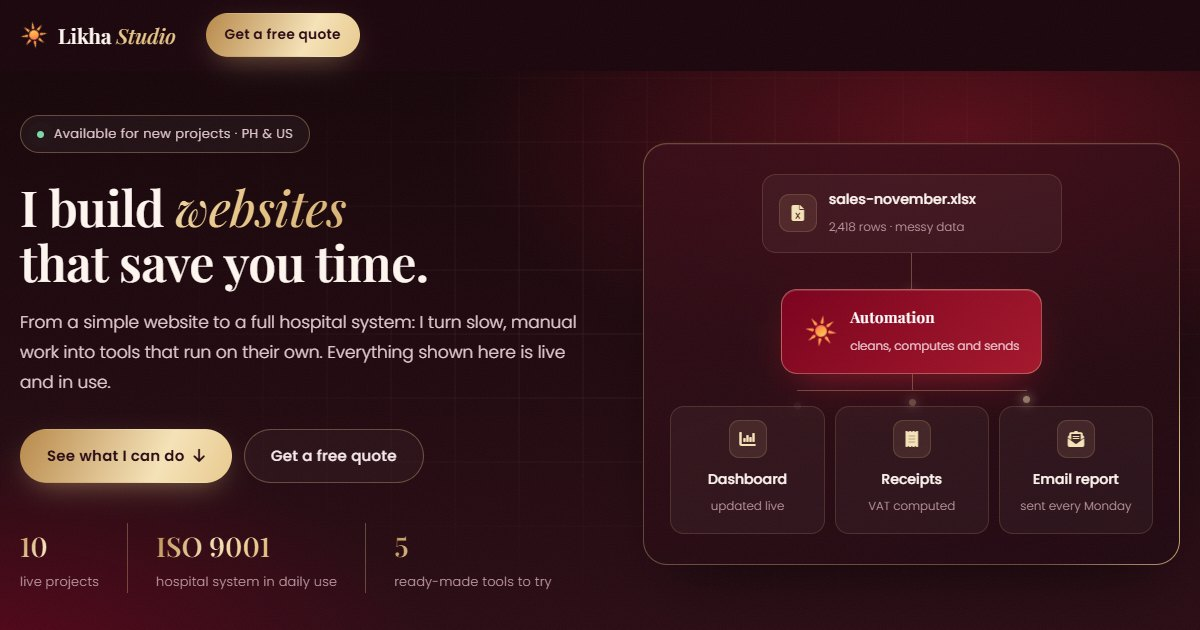
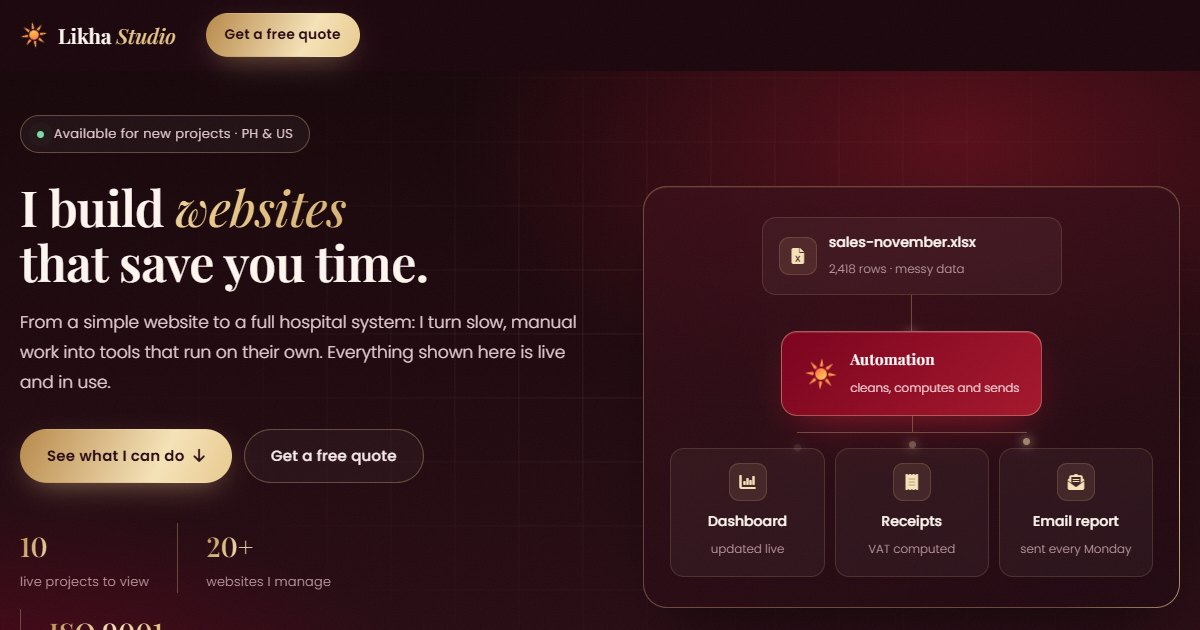
20+ websites stat, Who I help section, Resibo demo clip, FUSE speaking photo, working contact form (FormSubmit, honeypot), email-only contact, neutral hospital wording

diff --git a/index.html b/index.html
@@ -2,7 +2,7 @@
 <html lang="en">
 <head>
   <meta charset="utf-8">
-  <meta http-equiv="Content-Security-Policy" content="default-src 'self'; script-src 'self' https://garciaralphlawrence-svg.github.io; style-src 'self' 'unsafe-inline' https://fonts.googleapis.com https://cdnjs.cloudflare.com; font-src 'self' data: https://fonts.gstatic.com https://cdnjs.cloudflare.com; img-src 'self' data: https:; connect-src 'self' https://garciaralphlawrence-svg.github.io; object-src 'none'; base-uri 'self'; form-action 'self' mailto:">
+  <meta http-equiv="Content-Security-Policy" content="default-src 'self'; script-src 'self' https://garciaralphlawrence-svg.github.io; style-src 'self' 'unsafe-inline' https://fonts.googleapis.com https://cdnjs.cloudflare.com; font-src 'self' data: https://fonts.gstatic.com https://cdnjs.cloudflare.com; img-src 'self' data: https:; connect-src 'self' https://garciaralphlawrence-svg.github.io https://formsubmit.co; object-src 'none'; base-uri 'self'; form-action 'self' mailto: https://formsubmit.co">
   <meta name="referrer" content="strict-origin-when-cross-origin">
   <meta name="viewport" content="width=device-width, initial-scale=1">
   <title>Likha Studio — Websites, Systems, Automation & AI</title>
@@ -26,7 +26,7 @@
     <div class="wrap nav-inner">
       <a href="#top" class="logo" aria-label="Likha Studio home"><img src="assets/logo.svg" alt="" width="28" height="28"><span>Likha <em>Studio</em></span></a>
       <nav class="nav-links" id="navLinks">
-        <a href="#services">Services</a><a href="#hospital">Hospital system</a><a href="#tools">Tools</a><a href="#work">Projects</a><a href="#about">About</a><a href="#faq">FAQ</a>
+        <a href="#services">Services</a><a href="#industries">Who I help</a><a href="#hospital">Hospital system</a><a href="#tools">Tools</a><a href="#work">Projects</a><a href="#about">About</a><a href="#faq">FAQ</a>
       </nav>
       <a href="#contact" class="btn btn-primary btn-sm nav-cta">Get a free quote</a>
       <button class="burger" id="burger" aria-label="Menu" aria-expanded="false"><span></span><span></span></button>
@@ -47,9 +47,9 @@
             <a href="#contact" class="btn btn-outline">Get a free quote</a>
           </div>
           <ul class="proof">
-            <li><b data-count="10">10</b><span>live projects</span></li>
+            <li><b data-count="10">10</b><span>live projects to view</span></li>
+            <li><b data-count="20" data-suffix="+">20+</b><span>websites I manage</span></li>
             <li><b>ISO 9001</b><span>hospital system in daily use</span></li>
-            <li><b data-count="5">5</b><span>ready-made tools to try</span></li>
           </ul>
         </div>
 
@@ -129,13 +129,32 @@
       </div>
     </section>
 
+    <!-- ================= WHO I HELP ================= -->
+    <section class="section tinted" id="industries">
+      <div class="wrap">
+        <div class="sec-head center reveal">
+          <span class="kicker">Who I help</span>
+          <h2>Built for <em>your</em> kind of business</h2>
+          <p>Pick yours and see what I would build for you.</p>
+        </div>
+        <div class="ind-grid">
+          <article class="ind reveal"><i class="fa-solid fa-school"></i><h3>Schools &amp; tutorial centers</h3><p>Attendance kiosk, student and parent portals, enrollment forms and monthly reports.</p></article>
+          <article class="ind reveal"><i class="fa-solid fa-hospital"></i><h3>Clinics &amp; hospitals</h3><p>QR patient feedback, document control, KPI tracking and appointment dashboards.</p></article>
+          <article class="ind reveal"><i class="fa-solid fa-mug-hot"></i><h3>Restaurants &amp; cafés</h3><p>Online menu, receipts with VAT, daily sales dashboards and a chatbot for orders and hours.</p></article>
+          <article class="ind reveal"><i class="fa-solid fa-briefcase"></i><h3>Offices &amp; small businesses</h3><p>Excel automation, invoices, automatic email reports and a central file library.</p></article>
+          <article class="ind reveal"><i class="fa-solid fa-house-chimney"></i><h3>Real estate &amp; travel</h3><p>Listing or package websites, inquiry and booking forms, and client portals.</p></article>
+          <article class="ind reveal"><i class="fa-solid fa-microphone-lines"></i><h3>Events &amp; personal brands</h3><p>Event pages with countdowns and ticket info, portfolios and booking contacts.</p></article>
+        </div>
+      </div>
+    </section>
+
     <!-- ================= HOSPITAL CASE STUDY ================= -->
-    <section class="section tinted" id="hospital">
+    <section class="section" id="hospital">
       <div class="wrap">
         <div class="sec-head reveal">
           <span class="kicker">Featured project · Healthcare</span>
           <h2>Hospital Quality <em>Management</em> System</h2>
-          <p>I built the system that UERM Medical Center's Quality Assurance Office uses every day to meet ISO 9001. It replaced paper forms, shared folders and spreadsheets. Three highlights:</p>
+          <p>I built the system that a Manila medical center's Quality Assurance Office uses every day to meet ISO 9001. It replaced paper forms, shared folders and spreadsheets. Three highlights:</p>
         </div>
         <div class="hl-grid">
           <article class="hl reveal">
@@ -171,12 +190,21 @@
     </section>
 
     <!-- ================= TOOLS ================= -->
-    <section class="section" id="tools">
+    <section class="section tinted" id="tools">
       <div class="wrap">
         <div class="sec-head reveal">
           <span class="kicker">Ready-made tools</span>
           <h2>Try my tools <em>right now</em></h2>
           <p>Working examples of automation you can use today. Open one and click around.</p>
+        </div>
+        <div class="demo reveal">
+          <div class="frame"><div class="bar"><i></i><i></i><i></i><span>Resibo Maker — live recording</span></div><img src="assets/resibo-demo.webp" alt="Recording: a sale typed in Taglish becomes a finished receipt with VAT computed" loading="lazy" width="960" height="540"></div>
+          <div class="demo-copy">
+            <span class="hl-tag"><i class="fa-solid fa-circle-play"></i> See it in action</span>
+            <h3>From one sentence to a finished receipt</h3>
+            <p>Type the sale the way you would tell a cashier. The items, prices, payment and VAT fill in automatically, ready to print or share.</p>
+            <a class="btn btn-primary btn-sm" href="https://garciaralphlawrence-svg.github.io/AI-Analytics-Studio/receipts/" target="_blank" rel="noopener">Try the Resibo Maker <i class="fa-solid fa-arrow-right"></i></a>
+          </div>
         </div>
         <div class="tools-grid" id="toolsGrid"></div>
       </div>
@@ -213,13 +241,14 @@
     <!-- ================= ABOUT ================= -->
     <section class="section tinted" id="about">
       <div class="wrap about">
-        <div class="about-photo reveal">
-          <picture><source srcset="assets/ralph-cutout.webp" type="image/webp"><img src="assets/ralph-cutout.png" alt="Ralph Garcia, founder of Likha Studio" loading="lazy"></picture>
-        </div>
+        <figure class="about-photo reveal">
+          <img src="assets/ralph-speaking.webp" alt="Ralph Garcia speaking as an invited speaker at FUSE" loading="lazy" width="1600" height="898">
+          <figcaption><i class="fa-solid fa-microphone-lines"></i> Invited speaker · FUSE — “The Human Behind the Machine”</figcaption>
+        </figure>
         <div class="reveal">
           <span class="kicker">About</span>
           <h2>Hi, I'm <em>Ralph.</em></h2>
-          <p>I'm the developer and data analyst behind Likha Studio. You work directly with me, the person who designs and writes your code, so replies are fast and nothing gets lost in a handoff.</p>
+          <p>I'm the developer and data analyst behind Likha Studio. You work directly with me, the person who designs and writes your code, so replies are fast and nothing gets lost in a handoff. I currently manage <strong>20+ websites</strong>, and I was an invited speaker at FUSE on how people and AI work together.</p>
           <ul class="checks">
             <li><i class="fa-solid fa-check"></i> You own your site, system and data</li>
             <li><i class="fa-solid fa-check"></i> English and Filipino</li>
@@ -227,7 +256,7 @@
           </ul>
           <div class="btn-row">
             <a class="btn btn-outline btn-sm" href="https://garciaralphlawrence-svg.github.io/Ralph-Portfolio/" target="_blank" rel="noopener"><i class="fa-solid fa-user"></i> Full portfolio</a>
-            <a class="btn btn-outline btn-sm" data-contact="linkedin" target="_blank" rel="noopener"><i class="fa-brands fa-linkedin"></i> LinkedIn</a>
+            <a class="btn btn-outline btn-sm" href="#contact"><i class="fa-solid fa-envelope"></i> Email me</a>
           </div>
         </div>
       </div>
@@ -250,7 +279,9 @@
           <p class="lead">Tell me what you need and I'll reply with ideas and a free quote.</p>
           <div class="c-direct" id="cDirect"></div>
         </div>
-        <form class="c-form reveal" id="cForm">
+        <form class="c-form reveal" id="cForm" action="https://formsubmit.co/rlawrencegarcia03@gmail.com" method="POST">
+          <input type="text" name="_honey" class="hp" tabindex="-1" autocomplete="off" aria-hidden="true">
+          <label>Your email<input name="email" type="email" required autocomplete="email" placeholder="you@example.com"></label>
           <div class="row2">
             <label>Your name<input name="name" required autocomplete="name" placeholder="Juan dela Cruz"></label>
             <label>Business / school<input name="biz" autocomplete="organization" placeholder="Your business"></label>
@@ -262,7 +293,7 @@
           </label>
           <label>Message<textarea name="msg" rows="4" placeholder="What do you want to build or automate?"></textarea></label>
           <button class="btn btn-primary wide" type="submit"><i class="fa-solid fa-paper-plane"></i> Send my request</button>
-          <p class="c-note">This opens your email app with your message filled in.</p>
+          <p class="c-note" id="cNote">Your message goes straight to my inbox, and I will reply by email.</p>
         </form>
       </div>
     </section>

diff --git a/script.js b/script.js
@@ -84,12 +84,12 @@ $$('a', links).forEach(a => a.addEventListener('click', () => { links.classList.
 })();
 
 /* count-up numbers */
-function countTo(el, end) {
+function countTo(el, end, suf = '') {
   if (reduce || still) return;
   const t0 = performance.now();
-  (function step(t) { const k = Math.min(1, (t - t0) / 1200); el.textContent = Math.round(end * (1 - Math.pow(1 - k, 3))); if (k < 1) requestAnimationFrame(step); })(t0);
+  (function step(t) { const k = Math.min(1, (t - t0) / 1200); el.textContent = Math.round(end * (1 - Math.pow(1 - k, 3))) + suf; if (k < 1) requestAnimationFrame(step); })(t0);
 }
-setTimeout(() => $$('.proof b[data-count]').forEach(b => countTo(b, +b.dataset.count)), still || reduce ? 0 : 2300);
+setTimeout(() => $$('.proof b[data-count]').forEach(b => countTo(b, +b.dataset.count, b.dataset.suffix || '')), still || reduce ? 0 : 2300);
 
 /* drifting gold dust in the hero (pauses when the hero is off-screen) */
 (() => {
@@ -164,17 +164,31 @@ $('#faqList').innerHTML = FAQ.map(([q, a], i) => `<details class="reveal"${i ===
   if (CONTACT.messenger) items.push([CONTACT.messenger, 'fa-brands fa-facebook-messenger', 'Messenger', 'Chat with me']);
   if (CONTACT.whatsapp) items.push(['https://wa.me/' + CONTACT.whatsapp, 'fa-brands fa-whatsapp', 'WhatsApp', '+' + CONTACT.whatsapp]);
   if (CONTACT.phone) items.push(['tel:' + CONTACT.phone.replace(/[^\d+]/g, ''), 'fa-solid fa-phone', 'Call / Viber', CONTACT.phone]);
-  items.push([CONTACT.linkedin, 'fa-brands fa-linkedin-in', 'LinkedIn', 'Ralph Garcia']);
   items.push(['#', 'fa-solid fa-comment-dots', 'Chat assistant', 'Instant answers, 24/7']);
   $('#cDirect').innerHTML = items.map(([href, ic, label, val]) => `<a href="${esc(href)}"${/^https?:/.test(href) ? ' target="_blank" rel="noopener"' : ''}${label === 'Chat assistant' ? ' data-kapitan' : ''}><span class="ci"><i class="${ic}"></i></span><span><small>${label}</small><b>${esc(val)}</b></span></a>`).join('');
   $$('[data-contact="linkedin"]').forEach(a => a.href = CONTACT.linkedin);
 })();
-$('#cForm').addEventListener('submit', e => {
+$('#cForm').addEventListener('submit', async e => {
   e.preventDefault();
-  const f = new FormData(e.target);
-  const subject = `Project inquiry: ${f.get('need')}${f.get('biz') ? ' for ' + f.get('biz') : ''}`;
-  const body = `Hi Ralph,\n\nName: ${f.get('name')}\nBusiness / school: ${f.get('biz') || '-'}\nI need: ${f.get('need')}\n\n${f.get('msg') || ''}\n`;
-  location.href = `mailto:${CONTACT.email}?subject=${encodeURIComponent(subject)}&body=${encodeURIComponent(body)}`;
+  const form = e.target, f = new FormData(form), note = $('#cNote'), btn = form.querySelector('button[type="submit"]');
+  if (f.get('_honey')) return; // spam bots fill the hidden field
+  const subject = `Likha Studio inquiry: ${f.get('need')}${f.get('biz') ? ' for ' + f.get('biz') : ''}`;
+  const data = { name: f.get('name'), email: f.get('email'), business: f.get('biz') || '-', need: f.get('need'), message: f.get('msg') || '-', _subject: subject, _template: 'table', _captcha: 'false' };
+  btn.disabled = true; btn.innerHTML = '<i class="fa-solid fa-spinner fa-spin"></i> Sending…';
+  try {
+    const res = await fetch('https://formsubmit.co/ajax/' + CONTACT.email, { method: 'POST', headers: { 'Content-Type': 'application/json', Accept: 'application/json' }, body: JSON.stringify(data) });
+    const j = await res.json().catch(() => ({}));
+    if (!res.ok || String(j.success) !== 'true') throw new Error(j.message || 'send failed');
+    form.reset();
+    note.innerHTML = '<i class="fa-solid fa-circle-check"></i> Thank you! Your message was sent. I will reply by email.';
+    note.className = 'c-note ok';
+  } catch (err) {
+    const body = `Hi Ralph,\n\nName: ${data.name}\nEmail: ${data.email}\nBusiness: ${data.business}\nI need: ${data.need}\n\n${data.message}\n`;
+    note.innerHTML = 'Could not send automatically. <a href="mailto:' + CONTACT.email + '?subject=' + encodeURIComponent(subject) + '&body=' + encodeURIComponent(body) + '">Click here to send it by email instead.</a>';
+    note.className = 'c-note warn';
+  } finally {
+    btn.disabled = false; btn.innerHTML = '<i class="fa-solid fa-paper-plane"></i> Send my request';
+  }
 });
 
 /* open Kapitan from any [data-kapitan] button */

diff --git a/kapitan-kb.js b/kapitan-kb.js
@@ -66,8 +66,8 @@
   add(['portfolio', 'examples', 'sample work', 'previous work', 'projects', 'past projects', 'who are your clients', 'your clients', 'halimbawa', 'mga gawa'],
     'See Ralph\'s work:\n- [Ralph Garcia Portfolio](' + G + 'Ralph-Portfolio/)\n- [Future Minds Academy](https://futuremindsacademyph.com/) — school site + system\n- [CareSight](' + G + 'CareSight/) · [AI Analytics Studio](' + G + 'AI-Analytics-Studio/) · [SPC Studio](' + G + 'SPC-Studio/)\n- [IslaKeys](' + G + 'IslaKeys/) · [BizBuddy](' + G + 'BizBuddy/) · [KMM Travel](' + G + 'KMM/)\n[All projects](' + home + '#work)');
 
-  add(['hospital', 'hospital system', 'healthcare', 'medical center', 'uerm', 'quality management system', 'qms', 'iso 9001', 'case study'],
-    'Ralph built the **Quality Management System** used daily by UERM Medical Center\'s Quality Assurance Office (ISO 9001). Highlights:\n- **Customer Experience:** patients scan a QR code to give feedback\n- **Knowledge Hub (K-Hub):** every document in one searchable place\n- **KPI Generator:** monthly results marked Achieved / Not achieved automatically\n[See it](' + home + '#hospital)');
+  add(['hospital', 'hospital system', 'healthcare', 'medical center', 'quality management system', 'qms', 'iso 9001', 'case study'],
+    'Ralph built the **Quality Management System** used daily by a Manila medical center\'s Quality Assurance Office (ISO 9001). Highlights:\n- **Customer Experience:** patients scan a QR code to give feedback\n- **Knowledge Hub (K-Hub):** every document in one searchable place\n- **KPI Generator:** monthly results marked Achieved / Not achieved automatically\n[See it](' + home + '#hospital)');
 
   add(['qr code', 'qr feedback', 'customer feedback', 'patient feedback', 'satisfaction survey', 'complaints', 'scan qr'],
     '**QR feedback:** customers scan a QR code with their own phone and rate their experience, with no app or login. Each concern gets an owner and is tracked until resolved. [See it](' + home + '#hospital)');
@@ -79,7 +79,16 @@
     '**KPI Generator:** departments enter monthly results and the system marks each one Achieved / Not achieved automatically. Missed targets need an approved action plan. [See it](' + home + '#hospital)');
 
   add(['contact', 'email', 'how to reach', 'talk to ralph', 'paano kayo makontak', 'message', 'hire', 'inquire', 'book a call', 'free call'],
-    'Email **' + EMAIL + '** or use the [contact form](' + home + '#contact). You can also reach Ralph on [LinkedIn](https://www.linkedin.com/in/ralph-garcia-b57814401).');
+    'Email **' + EMAIL + '** or send a message with the [contact form](' + home + '#contact). It goes straight to Ralph\'s inbox.');
+
+  add(['how many websites', 'how many clients', 'how many projects', 'experience', 'track record', 'ilang website'],
+    'Ralph currently manages **20+ websites**, and **10 live projects** are on this site for you to open. [See projects](' + home + '#work)');
+
+  add(['who do you help', 'industries', 'what businesses', 'restaurant', 'cafe', 'clinic', 'office', 'small business', 'real estate', 'travel agency', 'events'],
+    'Likha helps:\n- **Schools & tutorial centers**\n- **Clinics & hospitals**\n- **Restaurants & cafés**\n- **Offices & small businesses**\n- **Real estate & travel**\n- **Events & personal brands**\n[See what fits you](' + home + '#industries)');
+
+  add(['speaker', 'talk', 'fuse', 'human behind the machine'],
+    'Ralph was an **invited speaker at FUSE** (Foundation for Upgrading the Standard of Education) with the talk **"The Human Behind the Machine"**.');
 
   add(['who is ralph', 'founder', 'developer', 'who will build', 'sino gagawa'],
     '**Ralph Garcia** is the developer and data analyst behind Likha Studio. You work directly with the person who designs and writes your code. [Full portfolio](' + G + 'Ralph-Portfolio/)');

diff --git a/style.css b/style.css
@@ -333,3 +333,43 @@ h1, h2, h3, .proof b, .steps span, .logo, .intro-mark { font-variant-numeric: li
   .proof b { font-size: 1.15rem; }
   .proof span { font-size: .7rem; line-height: 1.35; }
 }
+
+
+/* ================= additions: who I help, demo clip, speaking photo, form states ================= */
+.ind-grid { display: grid; grid-template-columns: repeat(3, 1fr); gap: 20px; }
+.ind { position: relative; padding: 26px 24px; border-radius: var(--r); background: linear-gradient(160deg, rgba(58,13,24,.55), rgba(29,7,15,.55)); border: 1px solid var(--line); box-shadow: var(--shadow); overflow: hidden; transition: transform .5s var(--ease), border-color .4s; }
+.ind::before { content: ""; position: absolute; right: -40px; top: -40px; width: 140px; height: 140px; border-radius: 50%; background: radial-gradient(circle, rgba(232,199,138,.16), transparent 70%); transition: transform .6s var(--ease); }
+.ind:hover { transform: translateY(-6px); border-color: var(--line-2); }
+.ind:hover::before { transform: scale(1.6); }
+.ind i { position: relative; width: 48px; height: 48px; display: grid; place-items: center; border-radius: 50%; background: var(--gold-grad); color: #2a0b14; font-size: 1.1rem; margin-bottom: 16px; box-shadow: 0 0 0 6px rgba(232,199,138,.08); transition: transform .5s var(--ease); }
+.ind:hover i { transform: rotate(-10deg) scale(1.08); }
+.ind h3 { position: relative; font-size: 1.25rem; margin-bottom: 8px; }
+.ind p { position: relative; color: var(--text-2); font-size: .9rem; }
+
+.demo { display: grid; grid-template-columns: 1.35fr 1fr; gap: 40px; align-items: center; margin-bottom: 40px; padding: 22px; border-radius: 22px; background: linear-gradient(160deg, rgba(58,13,24,.6), rgba(29,7,15,.5)); border: 1px solid var(--line-2); box-shadow: var(--shadow); }
+.demo .frame img { aspect-ratio: 16 / 9; object-fit: cover; object-position: top; }
+.demo-copy { display: grid; gap: 14px; justify-items: start; }
+.demo-copy h3 { font-size: clamp(1.4rem, 2.4vw, 1.9rem); }
+.demo-copy p { color: var(--text-2); font-size: .95rem; }
+
+.about { grid-template-columns: 1.1fr 1fr; }
+.about-photo { margin: 0; aspect-ratio: auto; background: #12040a; }
+.about-photo img { width: 100%; height: auto; aspect-ratio: 16 / 10; object-fit: cover; object-position: 70% 40%; filter: none; }
+.about-photo figcaption { position: absolute; left: 14px; right: 14px; bottom: 14px; z-index: 3; display: flex; align-items: center; gap: 10px; padding: 10px 14px; border-radius: 12px; font-size: .8rem; color: #fff6f0; background: rgba(22,5,9,.82); backdrop-filter: blur(8px); border: 1px solid var(--line-2); }
+.about-photo figcaption i { color: var(--gold); }
+
+.hp { position: absolute !important; left: -9999px !important; width: 1px; height: 1px; opacity: 0; }
+.c-note.ok { color: var(--ok); }
+.c-note.warn { color: var(--gold-2); }
+.c-note a { color: var(--gold); text-decoration: underline; }
+.btn:disabled { opacity: .7; cursor: wait; transform: none; }
+
+@media (max-width: 1024px) { .ind-grid { grid-template-columns: 1fr 1fr; } }
+@media (max-width: 900px) { .demo { grid-template-columns: 1fr; gap: 22px; } .about { grid-template-columns: 1fr; } .about-photo { max-width: none; } }
+@media (max-width: 640px) {
+  .ind-grid { grid-template-columns: 1fr; }
+  .ind { padding: 22px 20px; }
+  .demo { padding: 14px; margin-bottom: 30px; }
+  .about-photo figcaption { font-size: .72rem; left: 10px; right: 10px; bottom: 10px; padding: 8px 10px; }
+  .proof { grid-template-columns: repeat(3, 1fr); }
+}
